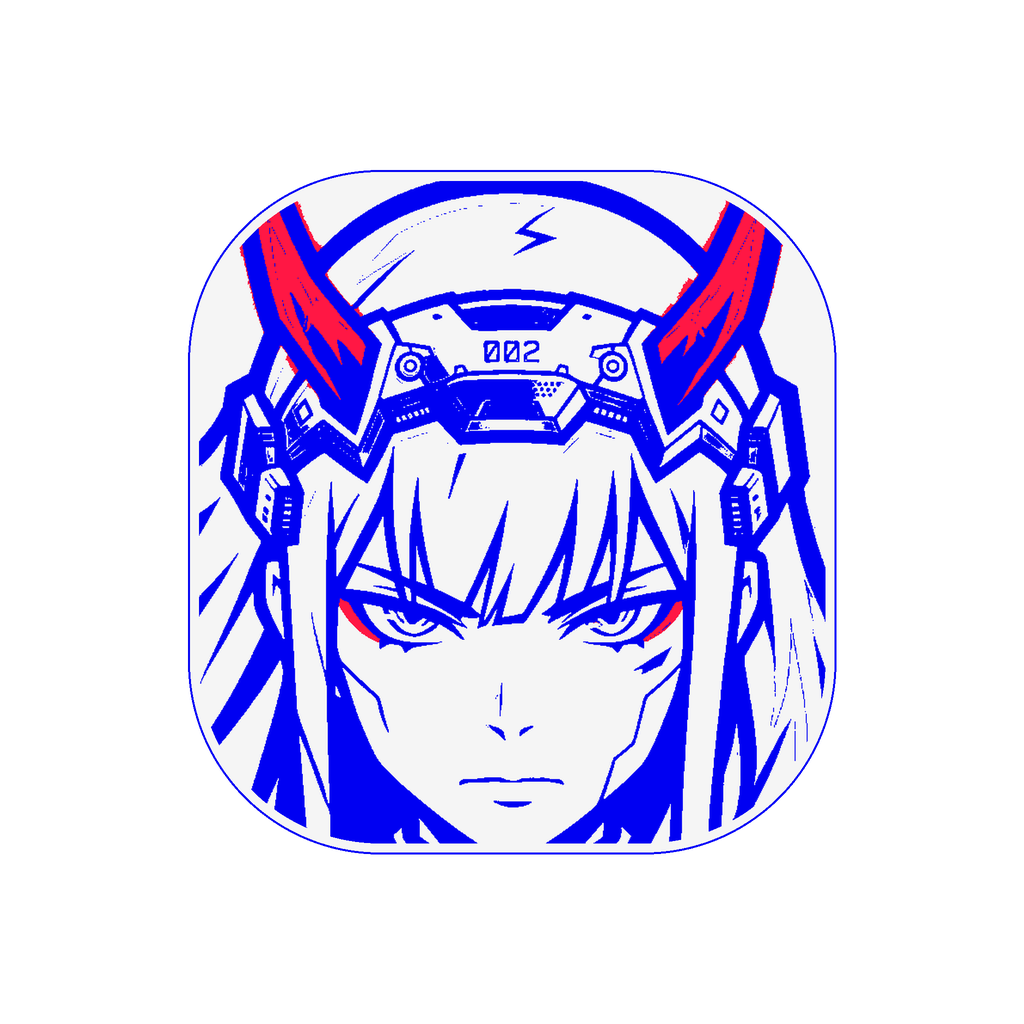
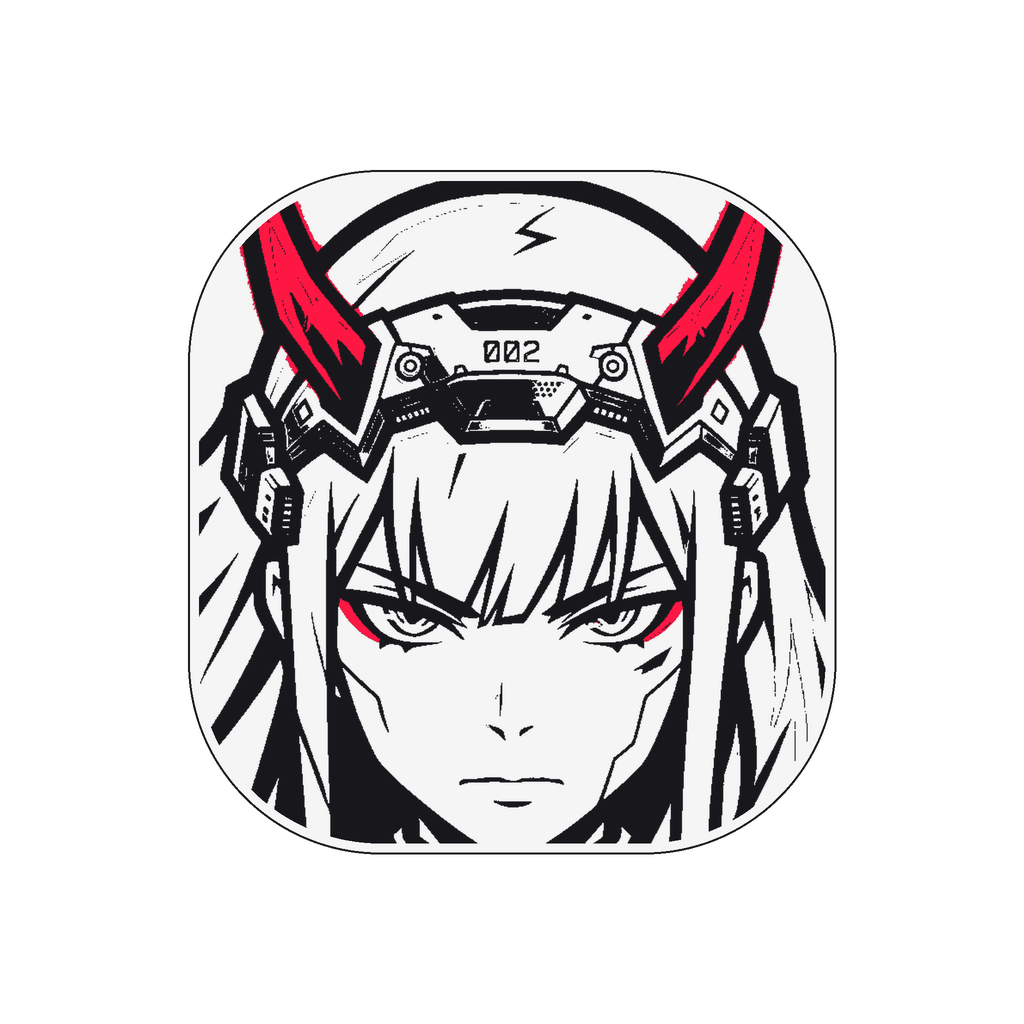
feat(brand): customize arch cartouche with grey aesthetic palette
- Replace electric blue field with matte graphite charcoal (#18181C)
- Provide slate, smoke, and titanium grey variations
- Update active logo.png and icon.png with verified raw zero two face

Changed region(s): [[0.1875, 0.1562, 0.8125, 0.8438], [0.4688, 0.75, 0.5312, 0.8125], [0.4688, 0.6875, 0.5, 0.7188]]

diff --git a/scripts/generate_grey_arch_cartouche.py b/scripts/generate_grey_arch_cartouche.py
@@ -1,0 +1,118 @@
+import math
+import os
+from PIL import Image, ImageDraw, ImageFont
+
+HERMES_WHITE = (245, 245, 245)    # #F5F5F5
+CRIMSON_RED = (255, 23, 68)       # #FF1744
+
+# Defined Grey Palettes
+GREY_GRAPHITE = (24, 24, 28)       # #18181C - Deep Matte Graphite / Charcoal
+GREY_SLATE = (40, 44, 52)          # #282C34 - Cool Industrial Slate Grey
+GREY_TITANIUM = (55, 60, 70)       # #373C46 - Mid-Tone Titanium / Steel Grey
+GREY_SMOKE = (30, 32, 38)          # #1E2026 - Dark Gunmetal Smoke
+
+SIZE = 2048
+CENTER = SIZE // 2
+
+# Load raw stencil
+stencil_src = Image.open('assets/zerotwo_face_electric_blue_stencil.png').convert('RGB')
+w_src, h_src = stencil_src.size
+pix_src = stencil_src.load()
+
+# Separate into clean binary masks (1024x1024)
+mask_white_1k = Image.new('L', (w_src, h_src), 0)
+mask_horns_1k = Image.new('L', (w_src, h_src), 0)
+mw_pix = mask_white_1k.load()
+mh_pix = mask_horns_1k.load()
+
+for y in range(h_src):
+    for x in range(w_src):
+        p = pix_src[x, y]
+        if p == (245, 245, 245):
+            mw_pix[x, y] = 255
+        elif p == (255, 23, 68):
+            mh_pix[x, y] = 255
+
+print(f"Masks extracted from raw stencil: white={sum(1 for y in range(h_src) for x in range(w_src) if mw_pix[x,y]==255)}, horns={sum(1 for y in range(h_src) for x in range(w_src) if mh_pix[x,y]==255)}")
+
+# Function to render grey arch cartouche
+def render_cartouche_in_color(bg_color, name_suffix, make_transparent=True):
+    # 1. Scale masks to 2048
+    SCALED_W = int(SIZE * 0.86)
+    SCALED_H = int(SIZE * 0.86)
+    
+    mw_scaled = mask_white_1k.resize((SCALED_W, SCALED_H), Image.Resampling.LANCZOS)
+    mh_scaled = mask_horns_1k.resize((SCALED_W, SCALED_H), Image.Resampling.LANCZOS)
+    
+    # 2. Build 2048 portrait layer in requested grey
+    portrait = Image.new('RGB', (SIZE, SIZE), bg_color)
+    # White face & headband
+    white_layer = Image.new('RGB', (SIZE, SIZE), HERMES_WHITE)
+    horns_layer = Image.new('RGB', (SIZE, SIZE), CRIMSON_RED)
+    
+    # Position matches exact centered arch
+    pos_x = (SIZE - SCALED_W) // 2
+    pos_y = 117
+    
+    # Create full canvas masks
+    full_mask_w = Image.new('L', (SIZE, SIZE), 0)
+    full_mask_w.paste(mw_scaled, (pos_x, pos_y))
+    full_mask_h = Image.new('L', (SIZE, SIZE), 0)
+    full_mask_h.paste(mh_scaled, (pos_x, pos_y))
+    
+    portrait.paste(white_layer, mask=full_mask_w)
+    portrait.paste(horns_layer, mask=full_mask_h)
+    
+    # 3. Arch Cartouche geometry
+    x0, x1 = 380, 1668
+    y0, y1 = 344, 1704
+    rad = 380
+    
+    # Canvas
+    cartouche_img = Image.new('RGBA', (SIZE, SIZE), (bg_color[0], bg_color[1], bg_color[2], 255))
+    
+    # Arch inner clipping mask
+    clip = Image.new('L', (SIZE, SIZE), 0)
+    d_c = ImageDraw.Draw(clip)
+    d_c.rounded_rectangle((x0, y0, x1, y1), radius=rad, fill=255)
+    
+    cartouche_img.paste(portrait, mask=clip)
+    
+    # Draw single precision white arch border (width = 18)
+    draw = ImageDraw.Draw(cartouche_img)
+    draw.rounded_rectangle((x0, y0, x1, y1), radius=rad, outline=HERMES_WHITE, width=18)
+    
+    # Save solid version
+    solid_1k = cartouche_img.convert('RGB').resize((1024, 1024), Image.Resampling.LANCZOS)
+    solid_path = f'assets/zerotwo_arch_cartouche_{name_suffix}_solid.png'
+    solid_1k.save(solid_path)
+    print(f"Saved solid: {solid_path}")
+    
+    # Transparent cutout version
+    if make_transparent:
+        trans_img = cartouche_img.copy()
+        mask_trans = Image.new('L', (SIZE, SIZE), 0)
+        d_mt = ImageDraw.Draw(mask_trans)
+        d_mt.rounded_rectangle((x0 - 4, y0 - 4, x1 + 4, y1 + 4), radius=rad + 4, fill=255)
+        trans_img.putalpha(mask_trans)
+        trans_1k = trans_img.resize((1024, 1024), Image.Resampling.LANCZOS)
+        trans_path = f'assets/zerotwo_arch_cartouche_{name_suffix}_transparent.png'
+        trans_1k.save(trans_path)
+        print(f"Saved transparent: {trans_path}")
+        return trans_path
+    return solid_path
+
+# Render the Grey Variations:
+# 1. Graphite / Charcoal Grey (Darkest, highest contrast)
+render_cartouche_in_color(GREY_GRAPHITE, 'grey_graphite')
+
+# 2. Slate Grey (Cool industrial grey, classic techwear)
+render_cartouche_in_color(GREY_SLATE, 'grey_slate')
+
+# 3. Titanium / Steel Grey (Mid-tone grey, distinct grey visibility)
+render_cartouche_in_color(GREY_TITANIUM, 'grey_titanium')
+
+# 4. Gunmetal Smoke Grey
+render_cartouche_in_color(GREY_SMOKE, 'grey_smoke')
+
+print("All grey variations rendered successfully.")
